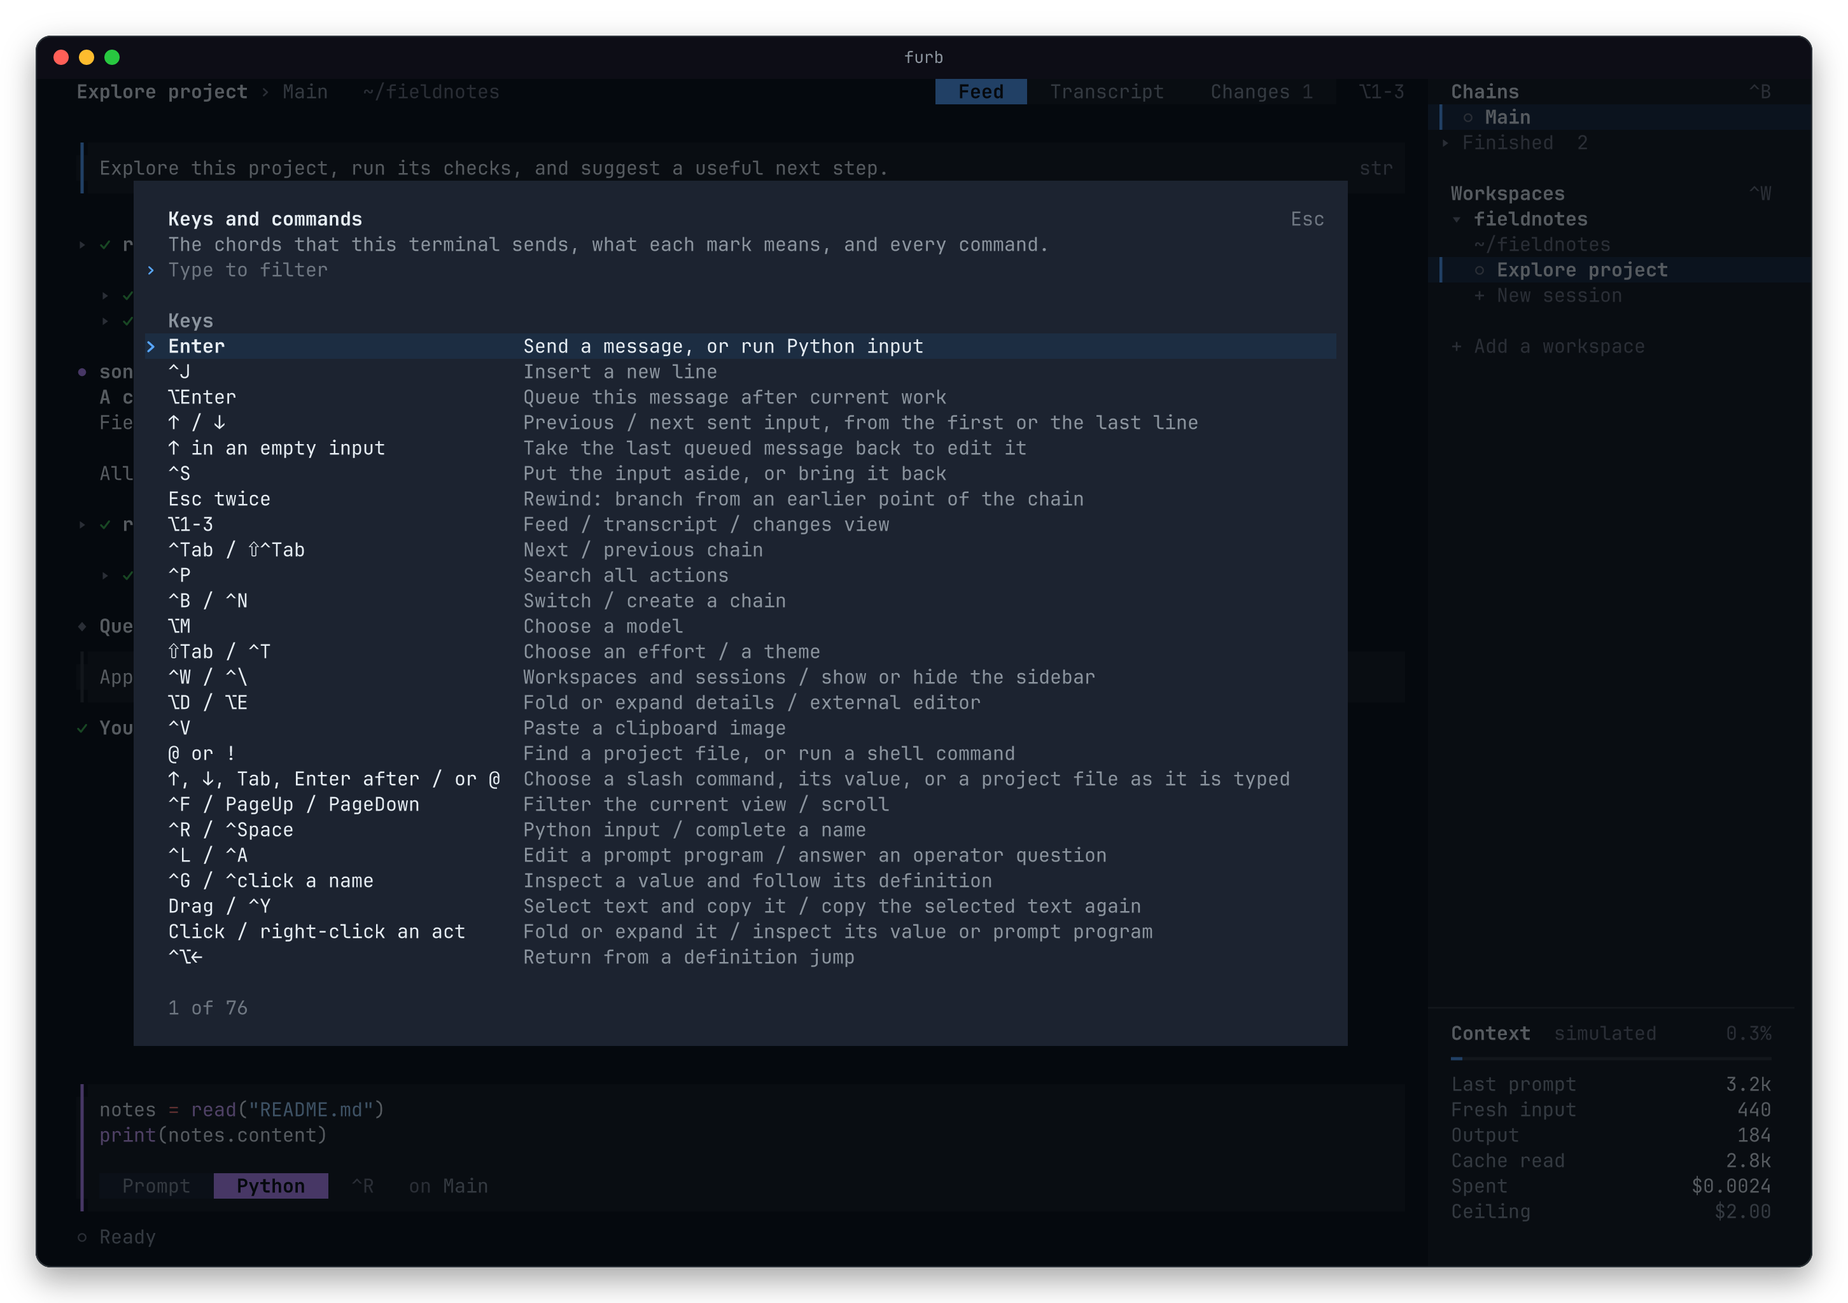
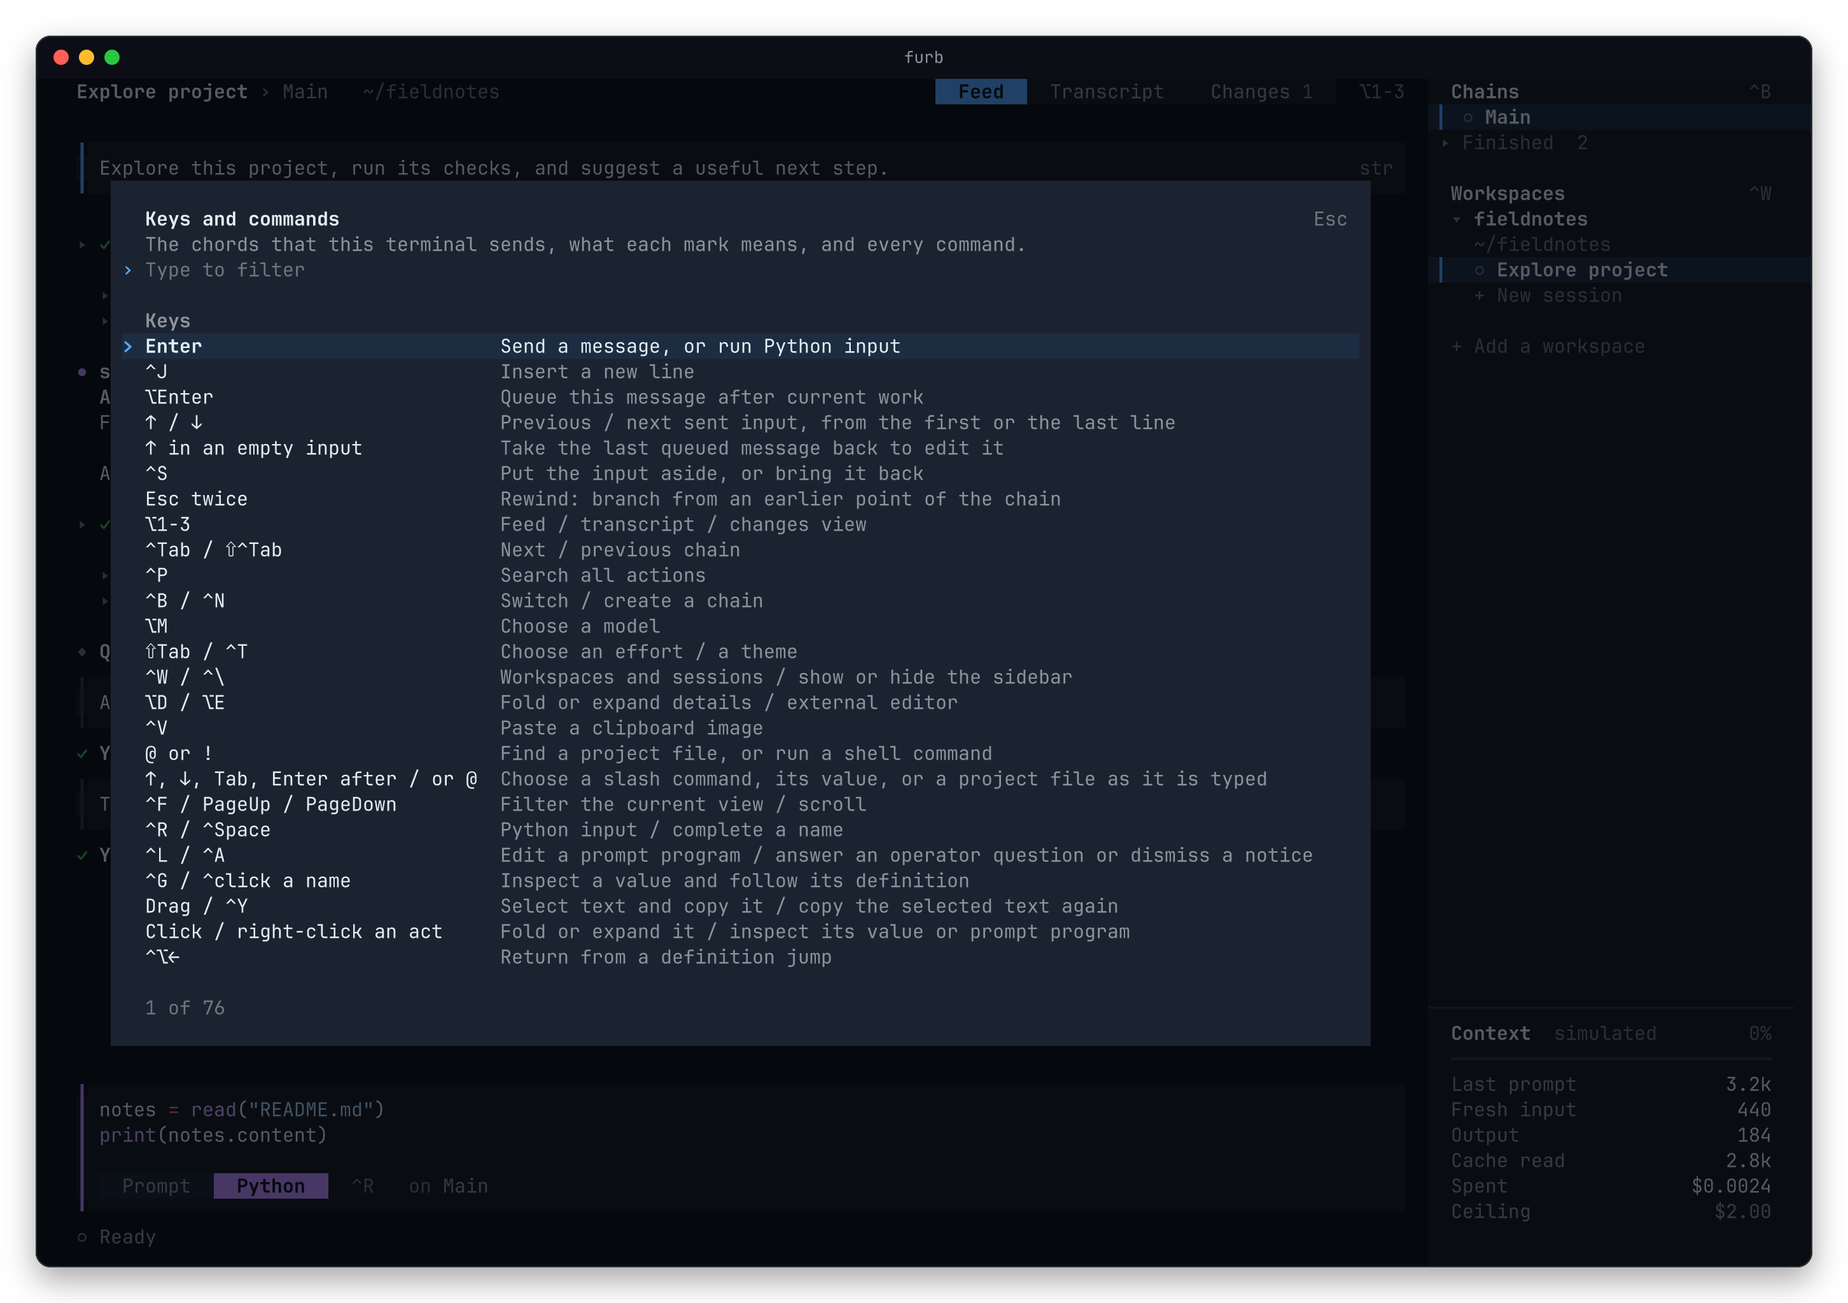
Close a prompt of None to the operator as the World takes it, and show it as a notice

diff --git a/bind/typescript/src/console.ts b/bind/typescript/src/console.ts
@@ -1,6 +1,6 @@
 import { answered, type Engine, shapes } from "../index.cjs";
 import { type Ear, fault, over, speaking } from "./ears.js";
-import { type Fact, isQuestion, type OperatorPrompt } from "./types.js";
+import { type Fact, isQuestion, type OperatorNotice, type OperatorPrompt } from "./types.js";
 
 /** A value the operator gives, in the shape its prompt wants: a number goes to a float prompt as a float, which
  * crosses marked, as its digits, since a whole number crosses as an int. */
@@ -14,7 +14,7 @@ export interface ConsoleOptions {
     prompt: { id: string; shape: string; message: string },
     signal: AbortSignal,
   ) => Promise<unknown>;
-  /** Told when the prompts that wait change. */
+  /** Told when the prompts that wait or the notices change. */
   changed?: () => void;
   /** Told what the life refused when the console closed a prompt. */
   fault?: (error: unknown) => void;
@@ -22,10 +22,14 @@ export interface ConsoleOptions {
 
 /** The console, as an ear: it takes each prompt put to the operator, shows it, and closes it with what the operator
  * answered. A prompt of a shape that the operator answers not is shown not, and closed with what no line comes to,
- * which is the refusal of its shape. */
+ * which is the refusal of its shape. A prompt of None asks nothing: the console closes it with None as it takes it,
+ * so no word waits on it, and keeps it as a notice until the operator dismisses it, or gives it to the callback of
+ * the operator. */
 export class Console {
   /** The prompts that wait for the operator, by the act. */
   readonly prompts = new Map<string, OperatorPrompt>();
+  /** The notices that the operator did not dismiss yet, by the act. */
+  readonly notices = new Map<string, OperatorNotice>();
   /** The engine whose prompts it takes, which its later work speaks into. */
   engine?: Engine;
   private readonly controller = new AbortController();
@@ -55,6 +59,16 @@ export class Console {
   private async asked(id: string, shape: string, message: string): Promise<void> {
     const engine = this.engine;
     if (!engine || over(engine, id)) return;
+    if (shape === "None") {
+      speaking(engine, "console", () => engine.close(answered(shape, ""), { id }));
+      if (this.options.operator)
+        await this.options.operator({ id, shape, message }, this.controller.signal).catch(() => {});
+      else {
+        this.notices.set(id, { id, message });
+        this.options.changed?.();
+      }
+      return;
+    }
     let value: unknown;
     try {
       if (this.options.operator)
@@ -83,9 +97,15 @@ export class Console {
     this.options.changed?.();
   }
 
+  /** The notice that the operator read, which the console shows no more. */
+  dismiss(id: string): void {
+    if (this.notices.delete(id)) this.options.changed?.();
+  }
+
   /** Every prompt that waits is refused, and no answer comes any more. */
   dispose(): void {
     this.controller.abort();
+    this.notices.clear();
     for (const prompt of this.prompts.values()) prompt.reject(new Error("The console was disposed."));
     this.prompts.clear();
   }

diff --git a/tui/src/app.ts b/tui/src/app.ts
@@ -1542,6 +1542,40 @@ export class App {
             (box) => this.word(box, code, rung?.run?.reason),
             { collapsible: true, act: rung, title: moving(rung), shown: code },
           );
+        } else if (item.type === "prompt" && asksOperator(item.act) && item.act.words[0] === "None") {
+          // A prompt of None asks nothing: the console closed it as it took it, and it is a notice that the operator
+          // reads and dismisses, with no field to answer.
+          const { act } = item;
+          const message = String(act.words[1] ?? "");
+          const unread = w.host.notices.has(act.id);
+          add(
+            item.key,
+            `${message}\n${unread}`,
+            [
+              [`${glyph.asks} `, unread ? c.warning : c.faint],
+              ["Notice", c.text, bold],
+              [`  ${act.by === "operator" ? "for you" : `from ${act.by}`}`, c.faint],
+            ],
+            (box) => {
+              this.panel(box, unread ? c.warning : c.border).add(this.text(message));
+              if (unread)
+                box.add(
+                  this.inset(
+                    space.between,
+                    this.text(
+                      [
+                        ["Nothing to answer. Press ", c.muted],
+                        ["⌃A", c.muted],
+                        [" or click here to dismiss it", c.faint],
+                      ],
+                      c.muted,
+                      { run: () => void this.session.host.dismiss(act.id).catch(this.report) },
+                    ),
+                  ),
+                );
+            },
+            { group: "question", act, shown: message },
+          );
         } else if (item.type === "prompt" && asksOperator(item.act)) {
           const { act } = item;
           const message = String(act.words[1] ?? "");
@@ -3801,7 +3835,11 @@ export class App {
   };
   question(): void {
     const question = this.session.operatorPrompt;
-    if (!question) return;
+    if (!question) {
+      const notice = this.session.operatorNotice;
+      if (notice) void this.session.host.dismiss(notice.id).catch(this.report);
+      return;
+    }
     if (question.shape === "bool") {
       this.openPalette("Answer yes or no", [
         {
@@ -5141,7 +5179,7 @@ export class App {
   /** When an action of the table acts, where it does not act at all times: a key that does not act goes on to the
    * input, and the footer does not offer it. */
   private readonly when: Partial<Record<Action, () => boolean>> = {
-    answer: () => Boolean(this.session.operatorPrompt),
+    answer: () => Boolean(this.session.operatorPrompt ?? this.session.operatorNotice),
     page: () => this.session.view === "changes",
     pause: () => !this.searchRow.visible && this.pausing(),
   };

diff --git a/tui/src/bridge.ts b/tui/src/bridge.ts
@@ -37,6 +37,9 @@ export type Engine = {
 };
 /** A question that waits for the operator. */
 type Prompt = { id: string; shape: string; message: string };
+/** A prompt of None to the operator, which asks nothing and was closed as the console took it, until the operator
+ * dismisses it. */
+type Notice = { id: string; message: string };
 /** What the session in the worker holds that the host keeps as it comes. */
 interface Plain {
   completed: number;
@@ -54,6 +57,7 @@ interface Plain {
 export interface HostState extends Plain {
   facts: number;
   prompts: Prompt[];
+  notices: Notice[];
   streams: [string, Stream][];
   pending: [string, string][];
 }
@@ -68,14 +72,16 @@ export class HostView extends EventEmitter implements Plain {
   record?: string;
   changes = 0;
   prompts = new Map<string, Prompt>();
+  notices = new Map<string, Notice>();
   streams = new Map<string, Stream>();
   pending = new Map<string, string>();
   constructor(private request: (target: string, method: string, args: unknown[]) => Promise<unknown>) {
     super();
   }
-  update({ facts, prompts, streams, pending, ...plain }: HostState): void {
+  update({ facts, prompts, notices, streams, pending, ...plain }: HostState): void {
     Object.assign(this, plain);
     this.prompts = new Map(prompts.map((prompt) => [prompt.id, prompt]));
+    this.notices = new Map(notices.map((notice) => [notice.id, notice]));
     this.streams = new Map(streams);
     this.pending = new Map(pending);
     if (facts) this.emit("facts");
@@ -93,6 +99,8 @@ export class HostView extends EventEmitter implements Plain {
   /** The name of the model that a name gives in the roster or in the catalog, and nothing when it gives none. */
   model = (name: string) => this.ask<string | null>("library", "model", name);
   answer = (id: string, value: string) => this.ask<unknown>("console", "answer", id, value);
+  /** The notice that the operator read, which the TUI shows no more as unread. */
+  dismiss = (id: string) => this.ask<unknown>("console", "dismiss", id);
   attachImage = (path: string) => this.ask<ImageAttachment>("session", "attachImage", path);
   sendQueued = (entry: FollowUp) => this.ask<string>("library", "queue", entry);
   resume = () => this.ask<unknown>("session", "resume");

diff --git a/tui/test/app.test.ts b/tui/test/app.test.ts
@@ -233,6 +233,32 @@ test("operator answers and program edits act through the binding", () =>
     { width: 120, height: 40, exitOnCtrlC: false },
   ));
 
+test("a prompt of None to the operator is a notice with no field, done at once, that ⌃A dismisses", () =>
+  composing(
+    async ({ session, screen, frame }) => {
+      const id = await session.engine.prompt("None", {
+        message: "The build is green.",
+        to: "operator",
+        on: session.engine.root,
+      });
+      expect(await session.engine.result(id)).toBeNull();
+      await until(session.host, () => session.host.notices.has(id));
+      await session.refresh();
+      expect(session.operatorPrompt).toBeUndefined();
+      const shown = await frame();
+      expect(shown).toContain("Notice");
+      expect(shown).toContain("The build is green.");
+      expect(shown).toContain("Nothing to answer");
+      expect(shown).not.toContain("Answer in the input below");
+      screen.mockInput.pressKey("a", { ctrl: true });
+      await until(session.host, () => !session.host.notices.has(id));
+      const read = await frame();
+      expect(read).toContain("The build is green.");
+      expect(read).not.toContain("Nothing to answer");
+    },
+    { width: 120, height: 40 },
+  ));
+
 test("resume preserves chains, programs, theme, and input drafts while unfinished work stays paused", async () => {
   const first = await demoSession({ seed: true });
   let library = await demoLibrary(first);

diff --git a/bind/typescript/test/session.test.ts b/bind/typescript/test/session.test.ts
@@ -434,6 +434,23 @@ test("a whole number from the operator answers a float prompt as a float, typed 
   }
 });
 
+test("a prompt of None to the operator is closed as the console takes it, and stays a notice until a dismiss", async () => {
+  const cwd = await mkdtemp(join(tmpdir(), "furb-notice-"));
+  const session = boot({ cwd });
+  try {
+    const { engine } = session;
+    const told = engine.prompt("None", { message: "The build is green.", to: "operator", on: engine.root });
+    expect(await told).toBeNull();
+    expect(session.console.prompts.size).toBe(0);
+    expect([...session.console.notices.values()]).toEqual([{ id: told.id, message: "The build is green." }]);
+    session.console.dismiss(told.id);
+    expect(session.console.notices.size).toBe(0);
+  } finally {
+    await session.dispose();
+    await rm(cwd, { recursive: true });
+  }
+});
+
 test("an operator question survives a resume and validates its answer", async () => {
   const cwd = await mkdtemp(join(tmpdir(), "furb-operator-resume-"));
   const record = join(cwd, "life.jsonl");

diff --git a/tui/script/screenshots.ts b/tui/script/screenshots.ts
@@ -123,6 +123,16 @@ try {
   app().closeOverlay();
   await session.host.answer(session.operatorPrompt?.id ?? "", "yes");
   await until(session.host, () => !session.host.prompts.size);
+  const notice = await session.engine.prompt("None", {
+    message: "The search shortcut is on the main chain.",
+    on: session.selected,
+    to: "operator",
+  });
+  await until(session.host, () => session.host.notices.has(notice));
+  await session.refresh();
+  await capture("22-operator-notice");
+  app().question();
+  await until(session.host, () => !session.host.notices.size);
   app().toggleMode();
   app().composer.setText('notes = read("README.md")\nprint(notes.content)');
   await capture("10-python-input");

diff --git a/tui/src/session.ts b/tui/src/session.ts
@@ -459,6 +459,12 @@ export class Session extends EventEmitter {
       (prompt) => this.acts.find((act) => act.id === prompt.id)?.on === this.selected,
     );
   }
+  /** The notice of the chain shown that the operator did not dismiss yet: a prompt of None, which asks nothing. */
+  get operatorNotice() {
+    return [...this.host.notices.values()].find(
+      (notice) => this.acts.find((act) => act.id === notice.id)?.on === this.selected,
+    );
+  }
   isUserPrompt(act: ActRow): boolean {
     return act.kind === "prompt" && act.by === "operator";
   }

diff --git a/bind/typescript/src/types.ts b/bind/typescript/src/types.ts
@@ -16,6 +16,13 @@ export type Turn = ReturnType<Engine["turns"]>[number];
 export type Fact = ReturnType<Engine["say"]>;
 /** One entry of the record: one fact, an act among them. */
 export type Entry = [Fact];
+/** A prompt of None to the operator, which asks nothing: the console closed it as it took it, and shows its message
+ * until the operator dismisses it. */
+export interface OperatorNotice {
+  id: string;
+  message: string;
+}
+
 export interface OperatorPrompt {
   id: string;
   shape: string;

diff --git a/tui/src/keys.ts b/tui/src/keys.ts
@@ -167,7 +167,7 @@ export const keys = [
   },
   {
     chord: "⌃L / ⌃A",
-    action: "Edit a prompt program / answer an operator question",
+    action: "Edit a prompt program / answer an operator question or dismiss a notice",
     bindings: [
       { on: ["ctrl+l"], run: "ladders", chord: "⌃L", command: "edit" },
       { on: ["ctrl+a"], run: "answer", chord: "⌃A", hint: "answer" },

diff --git a/tui/src/worker.ts b/tui/src/worker.ts
@@ -30,6 +30,7 @@ const state = () => {
     record: owner.record,
     facts: owner.facts.length - sentFacts,
     prompts: [...owner.console.prompts.values()].map(({ id, shape, message }) => ({ id, shape, message })),
+    notices: [...owner.console.notices.values()],
     streams: [...owner.streams],
     pending: [...owner.pending],
     changes: owner.changes.length,

diff --git a/test/test_prompt.py b/test/test_prompt.py
@@ -181,7 +181,7 @@ async def test_a_rung_need_not_wait_for_a_prompt_of_shape_none() -> None:
   """A rung need not wait for a prompt of shape None."""
   sand, log, root = born()
   two = engine.chain("two")
-  sand.script[root] = [f"prompt(None, 'look at this', to='operator', on={two!r})\nclose(1)"]
+  sand.script[root] = [f"prompt(None, 'look at this', on={two!r})\nclose(1)"]
   assert await engine.prompt(int, "tell them", on=root) == 1
   await settle()
   theirs = said(log, "prompt")[-1]
@@ -284,7 +284,7 @@ async def test_a_rung_prompts_on_any_chain_by_the_id_of_the_chain() -> None:
 
 
 async def test_a_prompt_to_the_operator_completes_when_the_operator_closes_the_prompt() -> None:
-  """A prompt to the operator completes when the operator closes the prompt."""
+  """A prompt to the operator of a shape that is not None completes when the operator closes the prompt."""
   _, _, root = born()
   act = engine.prompt(int, "how many?", to=OPERATOR, on=root)
   await settle()
@@ -335,7 +335,7 @@ async def test_a_word_written_to_its_door_is_a_rung_of_it() -> None:
 
 
 async def test_a_prompt_to_the_operator_asks_no_model() -> None:
-  """A prompt to the operator asks no model: the World takes it and shows it, and it waits to be closed; in a later life, one the record shows open is shown again only at a wake, and one the record shows closed is shown no more."""
+  """A prompt to the operator asks no model: the World takes it and shows it, and it waits to be closed, but for a prompt of shape None; in a later life, one the record shows open is shown again only at a wake, and one the record shows closed is shown no more."""
   sand, log, root = born()
   act = engine.prompt(int, "how many?", to=OPERATOR, on=root)
   await settle()
@@ -415,11 +415,20 @@ async def test_the_world_closes_with_a_refusal_a_prompt_it_cannot_put_to_the_ope
   engine.close(21, fine)
 
 
+async def test_the_world_closes_a_prompt_of_shape_none_to_the_operator_with_none_as_it_takes_it() -> None:
+  """The World closes a prompt of shape None to the operator with None as it takes it, since that prompt asks nothing: the operator reads it as a notice, and no word that awaits it waits for the operator."""
+  sand, log, root = born("await prompt(None, 'the build is green', to='operator')\nclose(1)")
+  assert await engine.prompt(int, "build it", on=root) == 1
+  notice = said(log, "prompt")[-1]
+  assert notice[4:] == ("None", "the build is green", OPERATOR) and engine.peek(notice[1], ...) is None
+  assert [one[1] for one in sand.calls if one[0] == "prompt"] == [notice[1]]
+
+
 async def test_the_shape_left_unsaid_is_none() -> None:
   """The shape left unsaid is None, which the acknowledgment uses, and any value responds to it."""
-  _, log, root = await lived()
+  _, log, _ = await lived()
   assert [one[4] for one in said(log, "prompt")] == ["int", "None"]
-  act = engine.prompt(None, "look at this", to=OPERATOR, on=root)
+  act = engine.prompt(None, "look at this", on=engine.chain("held"))
   await settle()
   engine.close("anything", act)
   await settle()

diff --git a/cli/src/console.rs b/cli/src/console.rs
@@ -29,7 +29,9 @@ pub struct Asked {
 impl Asked {
   /// The prompt a fact asks the operator, when it is one that no ear before the console took, as a console takes it:
   /// the console says its started, and closes at once a prompt of a shape outside SHAPES, with the refusal of that
-  /// shape, and gives it not. So every console of furb puts to the operator the same shapes.
+  /// shape, and gives it not. So every console of furb puts to the operator the same shapes. A prompt of None asks
+  /// nothing, so the console closes it with None at once and gives it, as a notice that the operator reads and
+  /// answers not.
   pub async fn taken<W: 'static>(co: &mut Co<W>, a: &Fact) -> Result<Option<Asked>, Fault> {
     if a.kind() != "prompt" || !a.question() {
       return Ok(None);
@@ -42,6 +44,10 @@ impl Asked {
       message: word(2).unwrap_or_default(),
     };
     say(co, Fact::says("started", &asked.about, []));
+    if asked.shape == "None" {
+      co.call("close", vec![Object::none()], vec![("id", Object::string(&asked.about))]).await?;
+      return Ok(Some(asked));
+    }
     if SHAPES.contains(&asked.shape.as_str()) {
       return Ok(Some(asked));
     }
@@ -55,7 +61,8 @@ impl Asked {
 type Input = Lines<BufReader<Stdin>>;
 
 /// The console, as an ear: it takes each prompt to the operator and shows them in turn, and closes each with the line
-/// the operator writes back, or with why no line came. A prompt that is done before its line comes, by a cancel, is
+/// the operator writes back, or with why no line came. A notice, which the console closed as it took it, is shown in
+/// its turn as one line, and reads no line. A prompt that is done before its line comes, by a cancel, is
 /// shown no more: a line the operator wrote before that goes nowhere, and the next line goes to the next prompt.
 pub fn terminal() -> Box<dyn Ear> {
   ear(|mut co: Co<Read>| async move {
@@ -68,8 +75,12 @@ pub fn terminal() -> Box<dyn Ear> {
       if shown.is_none()
         && lines.is_some()
         && let Some(next) = waiting.pop_front()
-        && let Some(held) = lines.take()
       {
+        if next.shape == "None" {
+          eprintln!("{} tells: {}", next.about, next.message);
+          continue;
+        }
+        let Some(held) = lines.take() else { continue };
         eprint!("{} wants a {}: {}\n> ", next.about, next.shape, next.message);
         let _ = io::stderr().flush();
         let (stop, stopped) = oneshot::channel();
@@ -81,7 +92,7 @@ pub fn terminal() -> Box<dyn Ear> {
           if let Some(asked) = Asked::taken(&mut co, &a).await? {
             waiting.push_back(asked);
           } else if a.kind() == "done" {
-            waiting.retain(|one| one.about != a.about());
+            waiting.retain(|one| one.about != a.about() || one.shape == "None");
             shown = shown.filter(|(one, _)| one.about != a.about());
           }
         }
